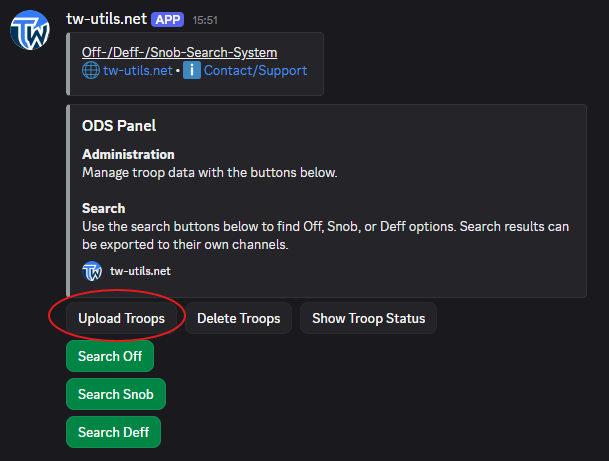
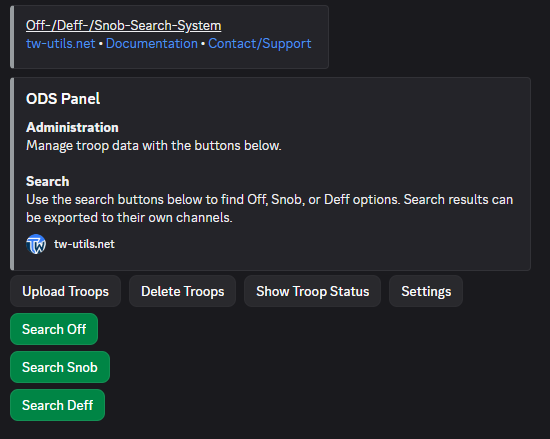
V11.8

Changed region(s): [[0.0, 0.0, 0.9582, 0.9772], [0.4636, 0.6515, 0.7109, 0.7107], [0.7109, 0.6515, 0.8345, 0.6811]]

diff --git a/docs/discord-bot/search-system.md b/docs/discord-bot/search-system.md
@@ -18,7 +18,7 @@ Sobald jemand ein Suchergebnis in einen eigenen Kanal exportiert (siehe [Abschni
 
 ## 2. Truppendaten
 
-Damit der Bot überhaupt Suchanfragen beantworten kann, müssen die Truppendaten der Stammesmitglieder im Bot hinterlegt sein. Im Such-Kanal `#⚫-ods-search` steht dafür das `ODS Panel`-Embed mit drei Admin-Buttons: `Upload Troops`, `Delete Troops`, `Show Troop Status` zur Verfügung.
+Damit der Bot überhaupt Suchanfragen beantworten kann, müssen die Truppendaten der Stammesmitglieder im Bot hinterlegt sein. Im Such-Kanal `#⚫-ods-search` steht dafür das `ODS Panel`-Embed mit vier Admin-Buttons: `Upload Troops`, `Delete Troops`, `Show Troop Status` und `Settings` zur Verfügung.
 
 ![Admin-Buttons im ODS Panel](../assets/discordbot/ods-system/02_ods_system_upload_troops.png){ .screenshot }
 
@@ -72,8 +72,18 @@ So sieht man auf einen Blick, welche Stämme aktuelle Truppendaten hinterlegt ha
 
 ![Troop Uploads Overview](../assets/discordbot/ods-system/07_ods_system_upload_troops_status_overview.png){ .screenshot }
 
+`Settings` öffnet die Einstellungen des ODS-Systems. Dort steht derzeit ein Schalter, `Include Running Commands`, dessen Beschriftung gleich den aktuellen Zustand nennt.
+
+![ODS Settings](../assets/discordbot/ods-system/27_ods_system_settings.png){ .screenshot }
+
+Ein Klick darauf erklärt den Schalter und bietet `Activate` und `Deactivate` an. Ist er aktiv, korrigiert der Bot die Truppenzahlen der Off-, Snob- und Deff-Suche mit den hochgeladenen laufenden Befehlen: Truppen, die seit dem letzten Truppen-Upload losgeschickt wurden, werden abgezogen, und Truppen, die bis zur Abschickzeit wieder zu Hause sind, kommen dazu. **Standardmäßig ist die Funktion AN.** Wie laufende Befehle zu tw-utils kommen, steht unter [Laufende Befehle](../leader-view/laufende-befehle.md).
+
+![Include Running Commands](../assets/discordbot/ods-system/28_ods_system_settings_include_running_commands.png){ .screenshot }
+
+Hochgeladene Truppendaten verschwinden auf zwei Wegen von selbst: Nach fünf Tagen entfernt ein täglicher Lauf den kompletten Upload eines Stammes, und einmal pro Stunde fallen einzelne Dörfer heraus, die inzwischen erobert wurden oder Barbarendörfer geworden sind.
+
 !!! info "Wer darf Truppen hochladen?"
-    Nur User mit der Rolle `TWU-Troops` (oder einer der darauf aufbauenden Rollen `TWU-Bunker`, `TWU-Planner`, `TWU-Leader`) können die Buttons `Upload Troops` und `Delete Troops` ausführen und den Slash-Command `/admin troops_upload` benutzen. Den Button `Show Troop Status` können auch normale Mitglieder verwenden.
+    Nur User mit der Rolle `TWU-Troops` (oder einer der darauf aufbauenden Rollen `TWU-Bunker`, `TWU-Planner`, `TWU-Leader`) können die Buttons `Upload Troops`, `Delete Troops` und `Settings` ausführen und den Slash-Command `/admin troops_upload` benutzen. Den Button `Show Troop Status` können auch normale Mitglieder verwenden.
 
 ## 3. ODS-Suche
 
@@ -118,6 +128,10 @@ Nach dem Abschicken eines Such-Modals antwortet der Bot mit einem **ephemeralen 
 Die möglichen Befehle werden übersichtlich in tabellarischer Form dargestellt:
 
 ![Detaillierte Such-Antwort in Tabellenform](../assets/discordbot/ods-system/13_ods_system_search_result_view_detailed.png){ .screenshot }
+
+Sind laufende Befehle einbezogen (siehe [Abschnitt 2](#2-truppendaten)), trägt die Zeilennummer ein `*` — allerdings nur dort, wo sich dadurch eine angezeigte Zahl tatsächlich geändert hat. Unter der Tabelle steht dann eine Legende, die auch nennt, von wie vielen Spielern die einbezogenen Befehle stammen.
+
+![Suchergebnis mit einbezogenen laufenden Befehlen](../assets/discordbot/ods-system/29_ods_system_search_result_running_commands.png){ .screenshot }
 
 Unter dem Suchergebnis stehen bis zu zehn Buttons zur Verfügung — jeder dieser Buttons generiert den jeweiligen WB-Befehl.
 

diff --git a/docs/discord-bot/search-system.en.md b/docs/discord-bot/search-system.en.md
@@ -18,7 +18,7 @@ As soon as someone exports a search result into a separate channel (see [Section
 
 ## 2. Troop data
 
-For the bot to be able to answer any search requests at all, the tribe members' troop data must be stored in the bot. To do that, the search channel `#⚫-ods-search` provides the `ODS Panel` embed with three admin buttons: `Upload Troops`, `Delete Troops`, `Show Troop Status`.
+For the bot to be able to answer any search requests at all, the tribe members' troop data must be stored in the bot. To do that, the search channel `#⚫-ods-search` provides the `ODS Panel` embed with four admin buttons: `Upload Troops`, `Delete Troops`, `Show Troop Status` and `Settings`.
 
 ![Admin buttons in the ODS Panel](../assets/discordbot/ods-system/02_ods_system_upload_troops.png){ .screenshot }
 
@@ -72,8 +72,18 @@ At a glance, this shows which tribes have up-to-date troop data and where the da
 
 ![Troop Uploads Overview](../assets/discordbot/ods-system/07_ods_system_upload_troops_status_overview.png){ .screenshot }
 
+`Settings` opens the settings of the ODS system. There is currently one switch there, `Include Running Commands`, whose label already states the current state.
+
+![ODS Settings](../assets/discordbot/ods-system/27_ods_system_settings.png){ .screenshot }
+
+Clicking it explains the switch and offers `Activate` and `Deactivate`. When it is active, the bot corrects the troop numbers of the Off, Snob and Deff search with the uploaded running commands: troops that were sent out after the last troop upload are subtracted, and troops that are back home by the launch time are added. **The feature is ON by default.** How running commands get to tw-utils is described under [Running Commands](../leader-view/laufende-befehle.md).
+
+![Include Running Commands](../assets/discordbot/ods-system/28_ods_system_settings_include_running_commands.png){ .screenshot }
+
+Uploaded troop data disappears on its own in two ways: after five days a daily run removes a tribe's entire upload, and once an hour individual villages drop out that have meanwhile been conquered or have become barbarian villages.
+
 !!! info "Who can upload troops?"
-    Only users with the `TWU-Troops` role (or one of the roles building on it — `TWU-Bunker`, `TWU-Planner`, `TWU-Leader`) can use the buttons `Upload Troops` and `Delete Troops` and run the slash command `/admin troops_upload`. The `Show Troop Status` button is also available to normal members.
+    Only users with the `TWU-Troops` role (or one of the roles building on it — `TWU-Bunker`, `TWU-Planner`, `TWU-Leader`) can use the buttons `Upload Troops`, `Delete Troops` and `Settings` and run the slash command `/admin troops_upload`. The `Show Troop Status` button is also available to normal members.
 
 ## 3. ODS search
 
@@ -118,6 +128,10 @@ After submitting a search modal, the bot replies with an **ephemeral embed** tha
 The possible commands are presented neatly in tabular form:
 
 ![Detailed search response in tabular form](../assets/discordbot/ods-system/13_ods_system_search_result_view_detailed.png){ .screenshot }
+
+If running commands are included (see [section 2](#2-troop-data)), the row number carries a `*` — but only where a displayed number has actually changed because of it. A legend then appears below the table, which also states how many players the included commands come from.
+
+![Search result with running commands included](../assets/discordbot/ods-system/29_ods_system_search_result_running_commands.png){ .screenshot }
 
 Below the search result, up to ten buttons are available — each of these buttons generates the matching WB command.
 

diff --git a/docs/leader-view/laufende-befehle.md b/docs/leader-view/laufende-befehle.md
@@ -39,6 +39,11 @@ an mehreren Stellen in die Planung ein:
 
 - **Leader-View** — dieser Tab mit den Unterreitern **Übersicht** und
   **Befehle**.
+- **ODS-System des Discordbots** — die Off-, Snob- und Deff-Suche zieht
+  Truppen ab, die seit dem Truppen-Upload losgeschickt wurden, und
+  zählt Unterstützungen dazu, die zur gesuchten Abschickzeit wieder
+  daheim sind. Siehe
+  [Off/Deff/Snob-Search-System](../discord-bot/search-system.md).
 - **Off-Planungstool** — im Schritt 1 zieht der Schalter
   **„Laufende Befehle (API) einbeziehen"** die Truppen ab, die
   aktuell schon unterwegs sind. Das ist genauer als das Rechnen aus
@@ -158,13 +163,16 @@ zugleich.
 Befehle verschwinden von selbst — allerdings nicht nach der Uhr,
 sondern **beim nächsten Upload**: Lädt irgendein Spieler dieses
 Discord-Servers neu hoch, räumt tw-utils bei der Gelegenheit alles weg,
-dessen Truppenbewegung mehr als eine Stunde vorbei ist. Bei
+dessen Truppenbewegung mehr als 24 Stunden vorbei ist. Bei
 **Angriffen** zählt dafür nicht die Ankunft, sondern erst der
 **Rückflug** — die Truppen sind ja bis zur Heimkehr gebunden. Bei allen
 anderen Befehlsarten zählt die Ankunft.
 
-Lädt niemand mehr hoch, bleiben alte Zeilen also stehen. Im
-Normalbetrieb ist manuelles Aufräumen trotzdem nicht nötig.
+Lädt niemand mehr hoch, bleiben alte Zeilen nach dieser Regel stehen.
+Davon unabhängig entfernt der Discordbot einmal pro Stunde die Befehle,
+deren **Herkunftsdorf** inzwischen erobert wurde oder ein Barbarendorf
+geworden ist — dieser Lauf braucht keinen Upload. Im Normalbetrieb ist
+manuelles Aufräumen also nicht nötig.
 
 !!! warning "„Alle hochgeladenen Befehle löschen" trifft den ganzen Server"
     Der Button oben rechts löscht die laufenden Befehle **aller**

diff --git a/docs/leader-view/laufende-befehle.en.md b/docs/leader-view/laufende-befehle.en.md
@@ -38,6 +38,10 @@ the planning in several places:
 
 - **Leader-View** — this tab with the **Overview** and **Commands**
   sub-tabs.
+- **ODS system of the Discord bot** — the Off, Snob and Deff search
+  subtracts troops that were sent out after the troop upload and adds
+  support that is back home by the launch time being searched for.
+  See [Off/Deff/Snob-Search-System](../discord-bot/search-system.md).
 - **Nuke-planning tool** — in step 1 the switch **"Include running
   commands (API)"** subtracts the troops that are already on their
   way. That is more precise than calculating from saved plans,
@@ -150,13 +154,16 @@ once.
 Commands disappear by themselves — not by the clock, though, but **on
 the next upload**: whenever any player of this Discord server uploads
 again, tw-utils takes the opportunity to clear out everything whose
-troop movement ended more than an hour ago. For **attacks** it is not
+troop movement ended more than 24 hours ago. For **attacks** it is not
 the arrival that counts but the **return flight** — after all, the
 troops are tied up until they get home. For all other command types the
 arrival counts.
 
-So if nobody uploads any more, old rows stay put. In normal operation
-manual clean-up is still not needed.
+So if nobody uploads any more, old rows stay put under that rule.
+Independently of it, once an hour the Discord bot removes the commands
+whose **source village** has meanwhile been conquered or has become a
+barbarian village — that run needs no upload. In normal operation
+manual clean-up is therefore not needed.
 
 !!! warning "\"Delete all uploaded commands\" hits the whole server"
     The button at the top right deletes the running commands of

diff --git a/docs/discord-bot/bunker-info.md b/docs/discord-bot/bunker-info.md
@@ -111,6 +111,9 @@ Im Modal `Dissolve Bunker` gibst du die aufzulösenden Koordinaten ein — das F
 
 ![Modal: Dissolve Bunker](../assets/discordbot/bunker-information-system/19_dissolve_Bunker_modal.png){ .screenshot }
 
+!!! info "Von Hand auflösen ist nicht der einzige Weg"
+    Einmal pro Stunde entfernt der Bot von selbst die Bunker, deren Dorf inzwischen erobert wurde oder ein Barbarendorf geworden ist. Das gilt für genehmigte Bunker ebenso wie für **offene Anträge und Aufstockungsanfragen**; bei einem offenen Antrag wird auch sein Antrags-Kanal gelöscht.
+
 ## 6. Bunker-Health & Flexbunker-Kontrolle
 
 Im Kanal `#⚫-leaderview-bunker` steht ein festes Bedienfeld mit den beiden Leader-Werkzeugen. Eine Bunker-Liste wird dort nicht gepostet — die bekommst du auf Knopfdruck.
@@ -171,3 +174,5 @@ Nach `Confirm` wird der Eintrag gespeichert und der Bot bestätigt den erfolgrei
 Anschließend taucht der Eintrag in der Feindbunker-Übersicht im Kanal auf — gruppiert nach gegnerischem Stamm, dann nach Spieler, mit Koordinate, Truppenanzahl und Info-Zeitpunkt.
 
 ![Feindbunker-Übersicht im Kanal](../assets/discordbot/bunker-information-system/30_report_bunker_manualentry_enemy_bunker_overview.png){ .screenshot }
+
+Neben `Admin: Remove Bunker` räumt der Bot auch von selbst auf: Einmal pro Stunde verschwinden die Feindbunker, deren Dorf nach dem Info-Zeitpunkt erobert wurde oder inzwischen ein Barbarendorf geworden ist.

diff --git a/docs/discord-bot/bunker-info.en.md b/docs/discord-bot/bunker-info.en.md
@@ -111,6 +111,9 @@ In the `Dissolve Bunker` modal you enter the coordinates to be dissolved — the
 
 ![Modal: Dissolve Bunker](../assets/discordbot/bunker-information-system/19_dissolve_Bunker_modal.png){ .screenshot }
 
+!!! info "Dissolving by hand is not the only way"
+    Once an hour the bot removes on its own those bunkers whose village has meanwhile been conquered or has become a barbarian village. This applies to approved bunkers just as much as to **open requests and top-up requests**; for an open request its request channel is deleted as well.
+
 ## 6. Bunker-Health & flex-bunker control
 
 The `#⚫-leaderview-bunker` channel holds a fixed panel with the two leader tools. No bunker list is posted there — you get it at the press of a button.
@@ -171,3 +174,5 @@ After `Confirm`, the entry is saved and the bot confirms the successful operatio
 The entry then shows up in the enemy-bunker overview in the channel — grouped by enemy tribe, then by player, with coordinate, unit counts and info time.
 
 ![Enemy-bunker overview in the channel](../assets/discordbot/bunker-information-system/30_report_bunker_manualentry_enemy_bunker_overview.png){ .screenshot }
+
+Besides `Admin: Remove Bunker`, the bot also cleans up by itself: once an hour the enemy bunkers disappear whose village was conquered after the info time, or has become a barbarian village in the meantime.

diff --git a/docs/discord-bot/modul-verwaltung.md b/docs/discord-bot/modul-verwaltung.md
@@ -19,6 +19,9 @@ Klicke im Modul-Verwaltungs-Menü auf den Button `Update`, um ein installiertes 
 
 ![Update Button](../assets/discordbot/bot-module-setup/03_update_button.png){ .screenshot }
 
+!!! warning "Die Kanäle des Moduls werden dabei neu angelegt"
+    Ein Update löscht die Discord-Kanäle des gewählten Moduls und erstellt sie neu — nur so kommen die Panels in der neuen Fassung heraus. Die Datenbank-Einträge (Bunker, Anträge, Sitting-Anfragen, Truppendaten) bleiben unangetastet; verloren geht nur, was in den alten Kanälen an Nachrichten stand. Betroffen ist immer nur das eine ausgewählte Modul.
+
 ## 3. Modul deinstallieren
 
 Klicke im Modul-Verwaltungs-Menü auf den Button `Delete`, um ein installiertes Modul wieder zu entfernen. Wähle im erscheinenden Dropdown das Modul aus, das deinstalliert werden soll.

diff --git a/docs/discord-bot/modul-verwaltung.en.md b/docs/discord-bot/modul-verwaltung.en.md
@@ -19,6 +19,9 @@ In the module management menu, click on the `Update` button to update an install
 
 ![Update Button](../assets/discordbot/bot-module-setup/03_update_button.png){ .screenshot }
 
+!!! warning "The module's channels are recreated in the process"
+    An update deletes the Discord channels of the selected module and creates them again — that is the only way the panels come out in their new form. The database entries (bunkers, requests, sitting requests, troop data) are left untouched; the only thing lost is whatever messages were in the old channels. Only the one selected module is affected.
+
 ## 3. Uninstall a module
 
 In the module management menu, click on the `Delete` button to remove an installed module. Select the module to be uninstalled in the dropdown that appears.

diff --git a/docs/leader-view/truppen.md b/docs/leader-view/truppen.md
@@ -30,6 +30,14 @@ tw-utils-Discordbots.
 | **Hochgeladen von** | Discord-User, der den Upload ausgelöst hat |
 | **Aktion** | Eintrag löschen (Mülltonnen-Icon) |
 
+!!! info "Die Zahl unter **Dörfer** kann von selbst kleiner werden"
+    Einmal pro Stunde entfernt tw-utils aus den hochgeladenen Truppen
+    die Dörfer, die inzwischen erobert wurden oder Barbarendörfer
+    geworden sind; die Zahl unter **Dörfer** sinkt entsprechend, der
+    Zeitstempel unter **Hochgeladen am** bleibt stehen. Der Eintrag als
+    Ganzes verschwindet weiterhin nur, wenn ihn jemand löscht oder er
+    fünf Tage alt geworden ist.
+
 ## Die beiden Scopes
 
 Beim Hochladen wählst du, welche Sicht der Truppen die Datei enthält.

diff --git a/docs/leader-view/bunker-info.en.md b/docs/leader-view/bunker-info.en.md
@@ -47,6 +47,14 @@ The table has the following columns:
 | **required Refills** | Difference target − actual as dual |
 | **Actions** | Top up (`+`), delete (trash) |
 
+!!! info "Rows can also disappear without anyone doing anything"
+    Once an hour tw-utils removes the bunkers whose village was
+    conquered after the approval, or has become a barbarian village in
+    the meantime — approved bunkers just as much as open requests and
+    top-up requests. The same goes for the **Enemy bunkers** sub-tab.
+    Every removal is listed with village and reason in the
+    `#⚫-admin-logs` channel of your Discord server.
+
 ### Add a bunker manually
 
 The **standard path** for new bunkers goes through the

diff --git a/docs/leader-view/bunker-info.md b/docs/leader-view/bunker-info.md
@@ -50,6 +50,14 @@ Die Tabelle hat folgende Spalten:
 | **benötigte Refills** | Differenz Soll - Ist als Dual |
 | **Aktionen** | Aufstocken (`+`), Löschen (Mülltonne) |
 
+!!! info "Zeilen können auch ohne Zutun verschwinden"
+    Einmal pro Stunde entfernt tw-utils die Bunker, deren Dorf nach der
+    Genehmigung erobert wurde oder inzwischen ein Barbarendorf geworden
+    ist — genehmigte Bunker ebenso wie offene Anträge und
+    Aufstockungsanfragen. Dasselbe gilt im Unterreiter **Feindliche
+    Bunker**. Jede Entfernung steht mit Dorf und Grund im Kanal
+    `#⚫-admin-logs` eures Discord-Servers.
+
 ### Bunker manuell eintragen
 
 Der **Standardweg** für neue Bunker führt über das

diff --git a/docs/index.md b/docs/index.md
@@ -178,6 +178,8 @@ Für Script-Entwickler: Endpunkte, Authentifizierung und Beispiele.
 ??? question "Wie lange bleiben hochgeladene Truppendaten gespeichert?"
     **5 Tage.** Ein täglicher Aufräumlauf entfernt ältere Uploads — getrennt je Stamm und je Erfassungsart. Für eine belastbare Planung solltest du die Truppen also regelmäßig neu hochladen.
 
+    Unabhängig vom Alter fallen **einzelne Dörfer** früher heraus: Einmal pro Stunde entfernt tw-utils die Dörfer, die inzwischen erobert wurden oder Barbarendörfer geworden sind.
+
     → [Leader-View — Truppen](leader-view/truppen.md)
 
 ??? question "Warum überschreibt mein neuer Upload die alten Truppen nicht?"
